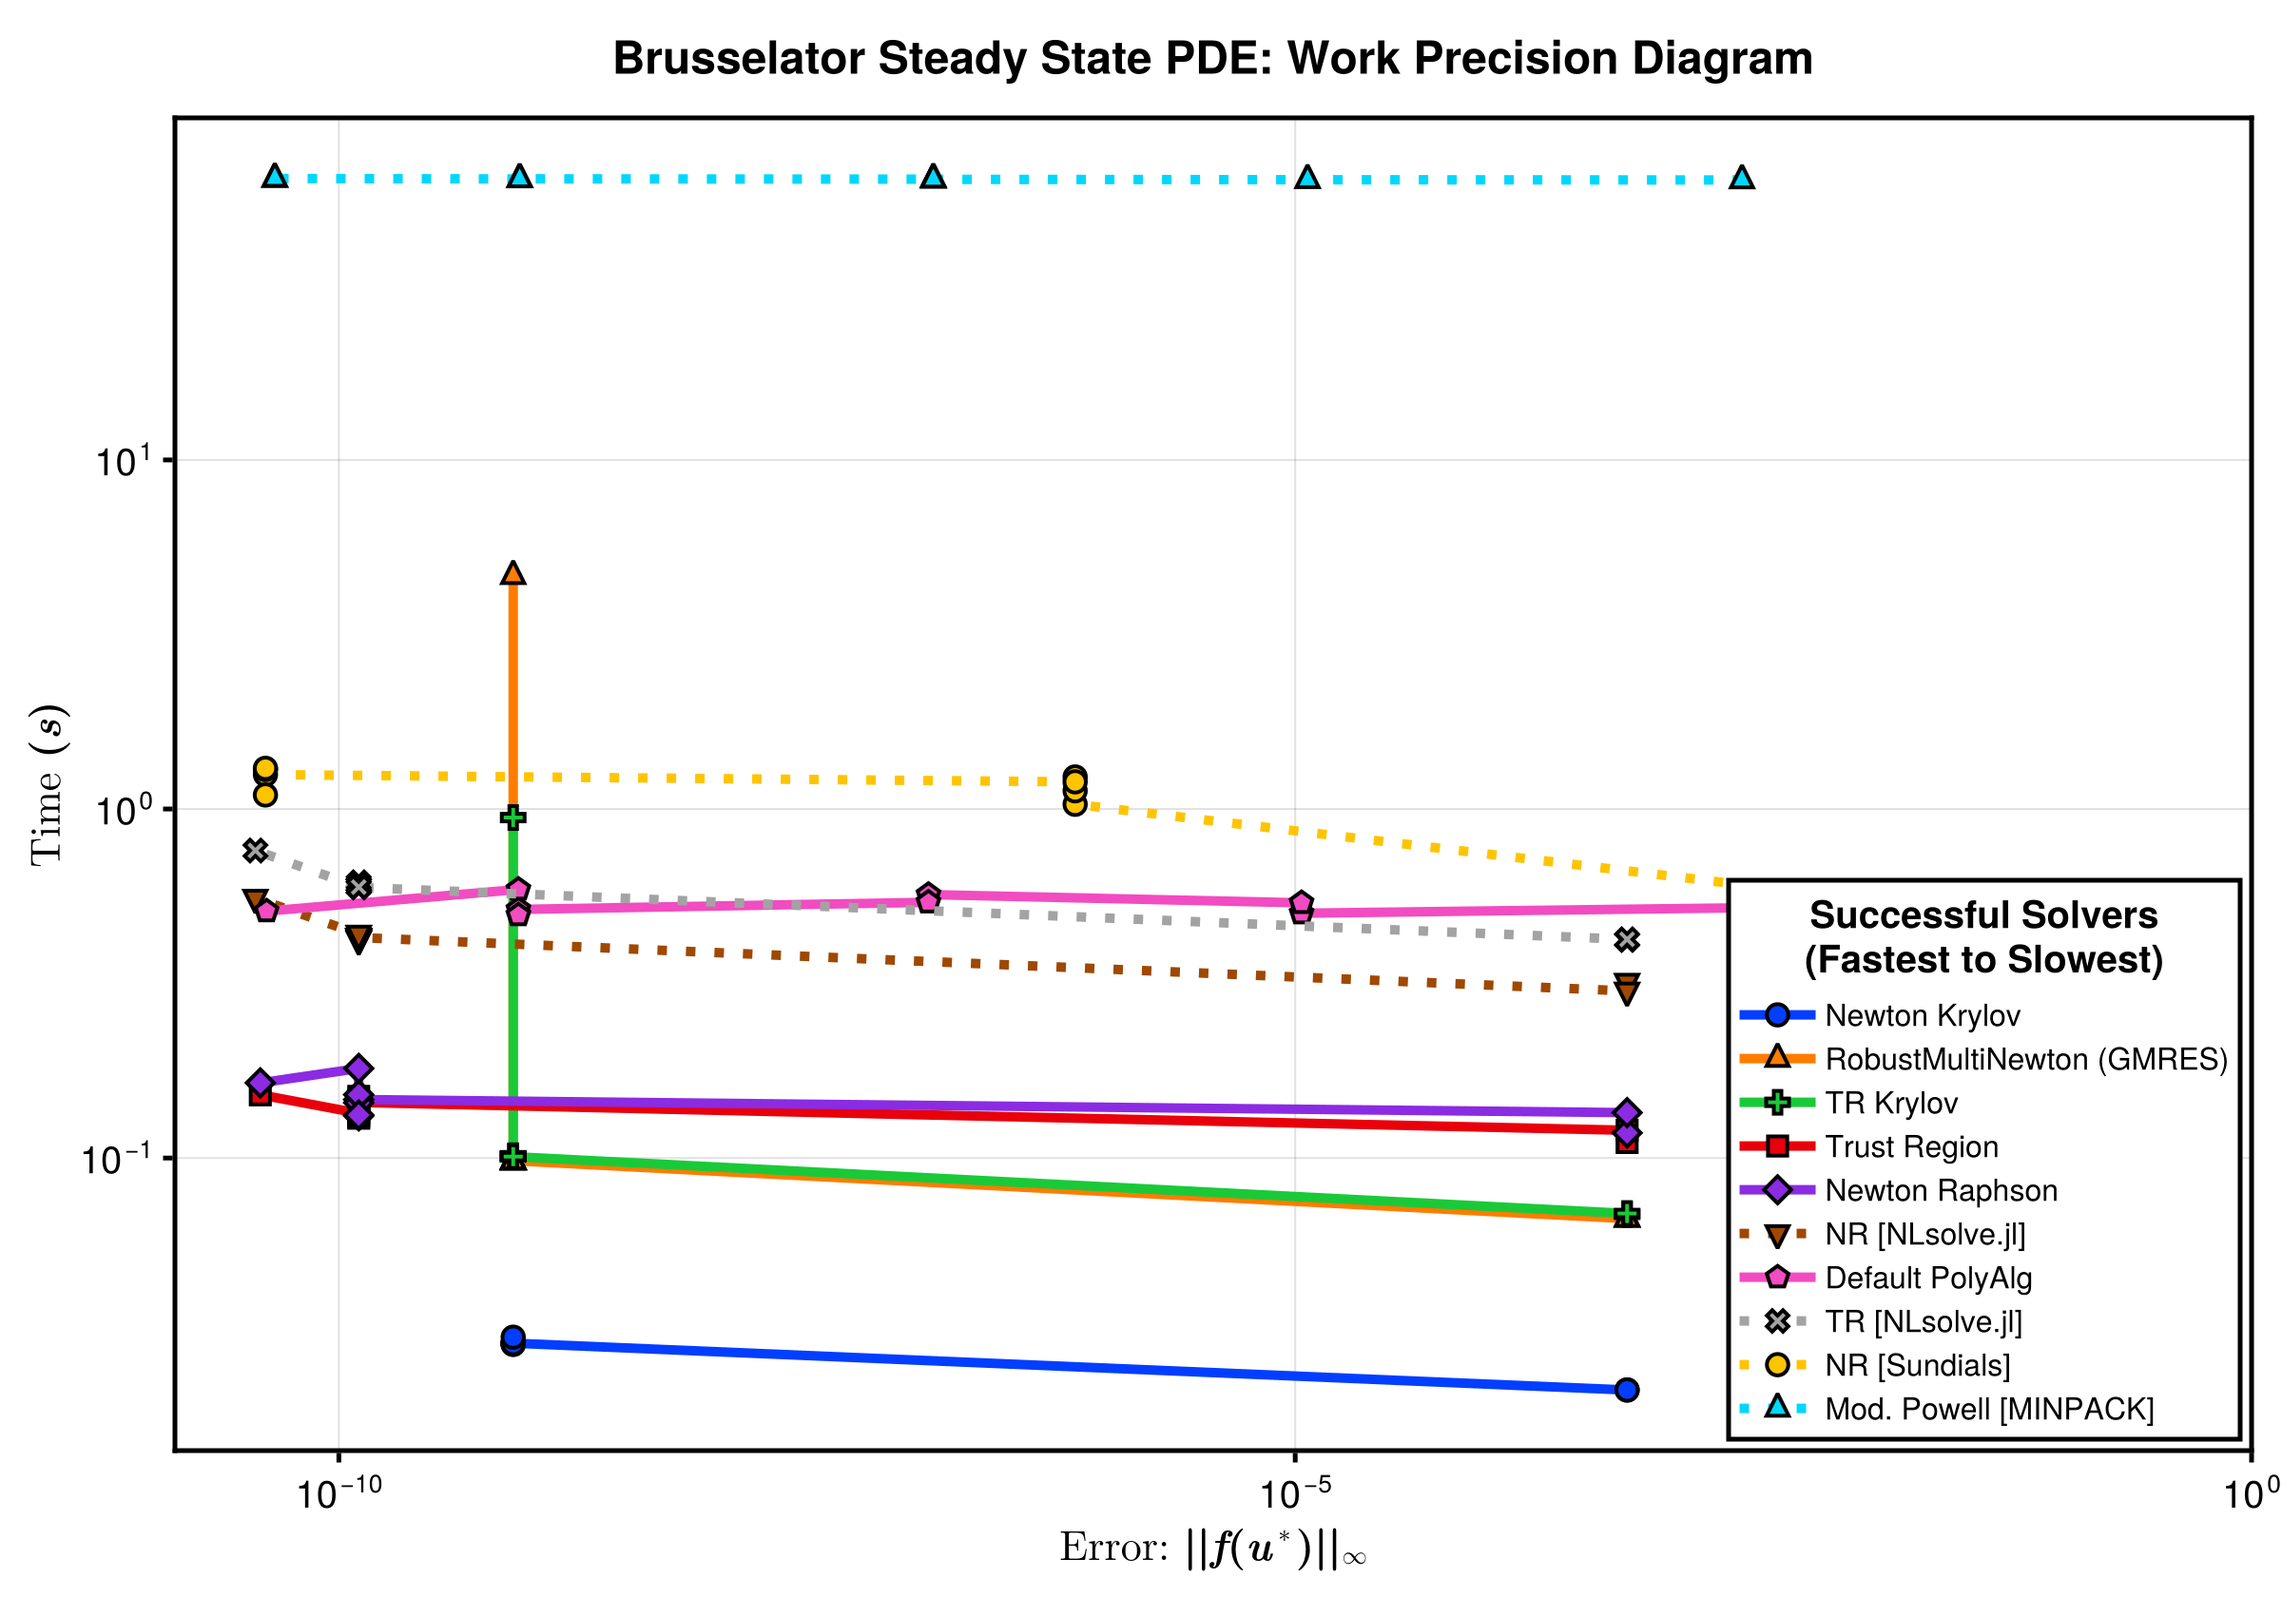
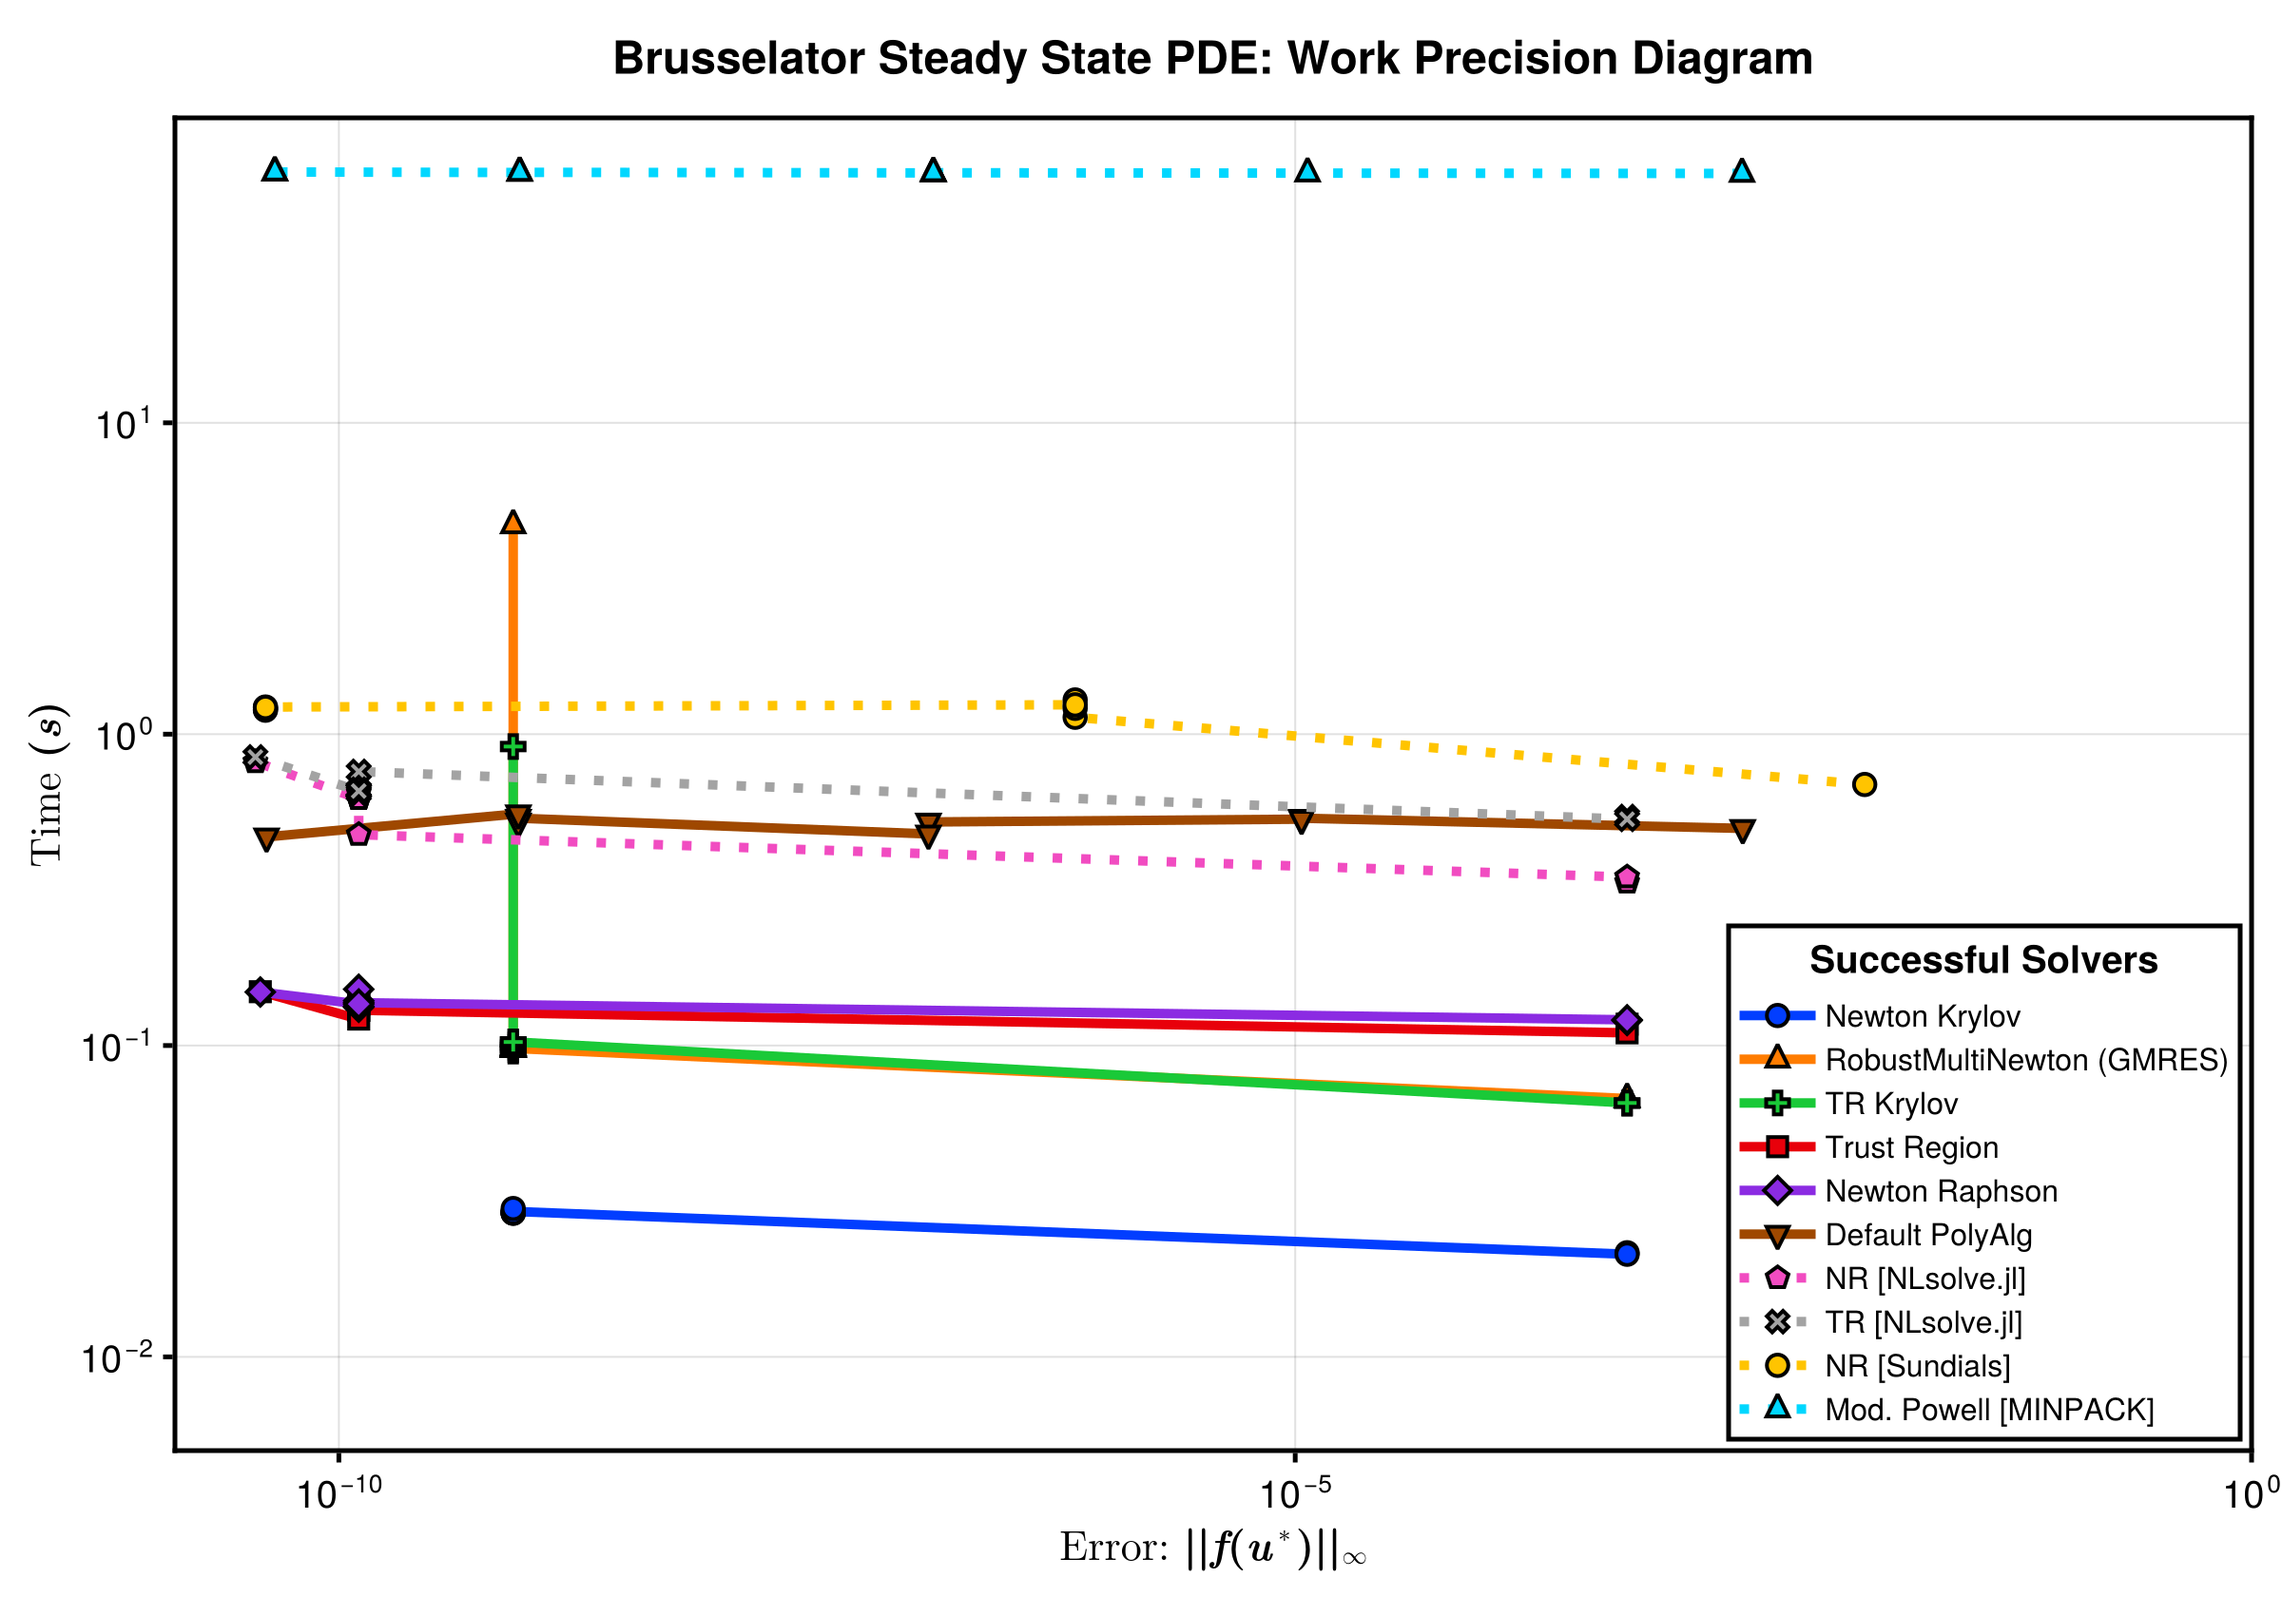
Automatic build\nPublished by build of: https://github.com/SciML/SciMLBenchmarks.jl/commit/c3a9d74593885743896f656a84f6933b12191168

diff --git a/markdown/NonlinearProblem/bruss.md b/markdown/NonlinearProblem/bruss.md
@@ -158,10 +158,29 @@ function __set_ad_chunksize(solver::SimpleTrustRegion, ck, sparsity, psize)
     return SimpleTrustRegion(; autodiff)
 end
 __set_ad_chunksize(solver, ck, sparsity, psize) = solver
+
+function get_ordering(x::AbstractMatrix)
+    idxs = Vector{Int}(undef, size(x, 1))
+    placed = zeros(Bool, size(x, 1))
+    idx = 1
+    for i in size(x, 2):-1:1
+        col = view(x, :, i)
+        idxs_col = sortperm(col; by = x -> isnan(x) ? Inf : (x == -1 ? Inf : x))
+        for j in idxs_col
+            if !placed[j] && !isnan(col[j]) && col[j] ≠ -1
+                idxs[j] = idx
+                idx += 1
+                placed[j] = true
+            end
+        end
+        idx > length(idxs) && break
+    end
+    return idxs
+end
 ```
 
 ```
-__set_ad_chunksize (generic function with 5 methods)
+get_ordering (generic function with 1 method)
 ```
 
 
@@ -461,7 +480,7 @@ fig = begin
             xticklabelsize = 20, yticklabelsize = 20, xtickwidth = STROKEWIDTH,
             ytickwidth = STROKEWIDTH, spinewidth = STROKEWIDTH)
 
-        idxs = sortperm(runtimes_scaling[:, end])
+        idxs = get_ordering(runtimes_scaling)
 
         ls, scs = [], []
         for (i, solver) in zip(idxs, solvers_scaling[idxs])
@@ -656,7 +675,7 @@ fig = begin
             xticklabelsize = 20, yticklabelsize = 20, xtickwidth = STROKEWIDTH,
             ytickwidth = STROKEWIDTH, spinewidth = STROKEWIDTH)
 
-        idxs = sortperm(runtimes_scaling[:, end])
+        idxs = get_ordering(runtimes_scaling)
 
         ls, scs, labels = [], [], []
         for (i, solver) in zip(idxs, solvers_scaling_jacobian_free[idxs])
@@ -698,7 +717,12 @@ fig = begin
 end
 ```
 
-![](figures/bruss_12_1.png)
+```
+Error: BoundsError: attempt to access 9-element Vector{NamedTuple{(:pkg, :n
+ame, :alg)}} at index [[3, 8, 1, 6, 4, 7, 2, 5, 27127150881566736]]
+```
+
+
 
 ```julia
 save("brusselator_krylov_methods_scaling.svg", fig)
@@ -861,9 +885,10 @@ fig = begin
         end
 
         xlims!(ax; high=1)
+        ylims!(ax; low=5e-3)
 
         axislegend(ax, [[l, sc] for (l, sc) in zip(ls, scs)],
-            [solver.name for solver in successful_solvers[idxs]], "Successful Solvers\n(Fastest to Slowest)";
+            [solver.name for solver in successful_solvers[idxs]], "Successful Solvers";
             framevisible=true, framewidth = STROKEWIDTH, position = :rb,
             titlesize = 20, labelsize = 16, patchsize = (40.0f0, 20.0f0))
 
